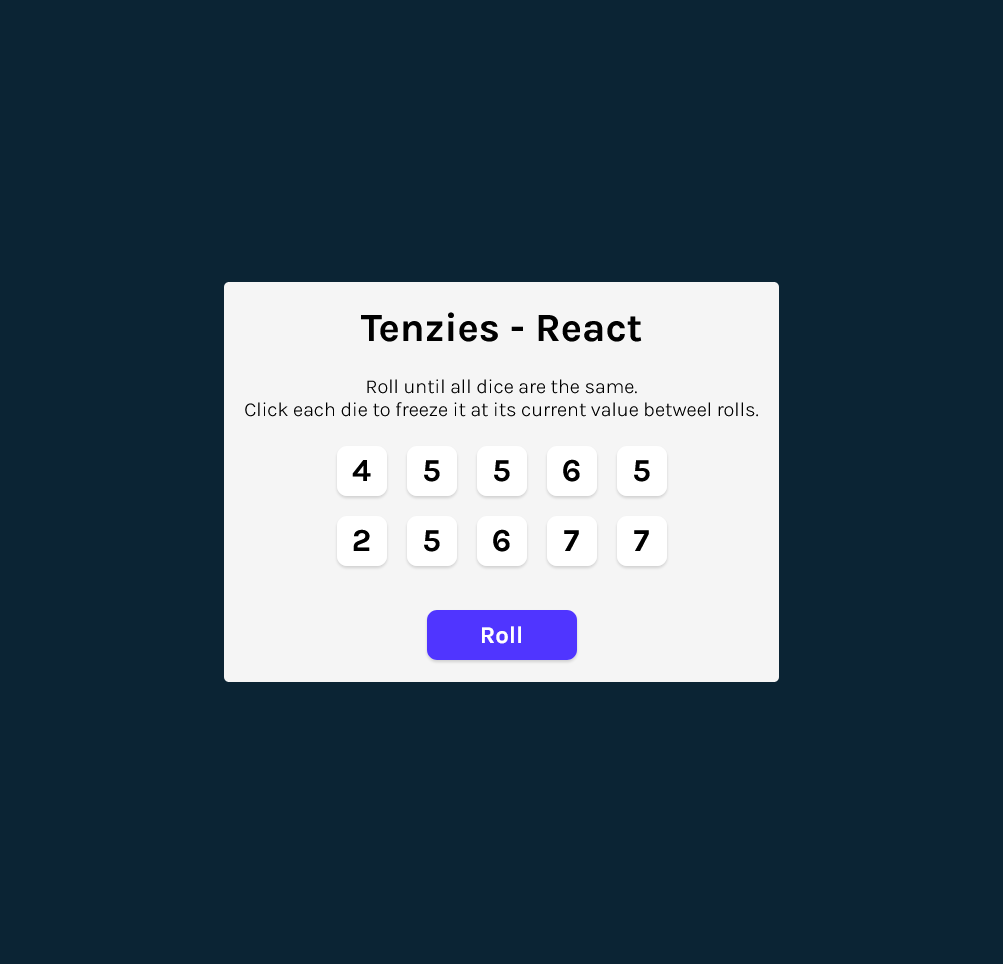
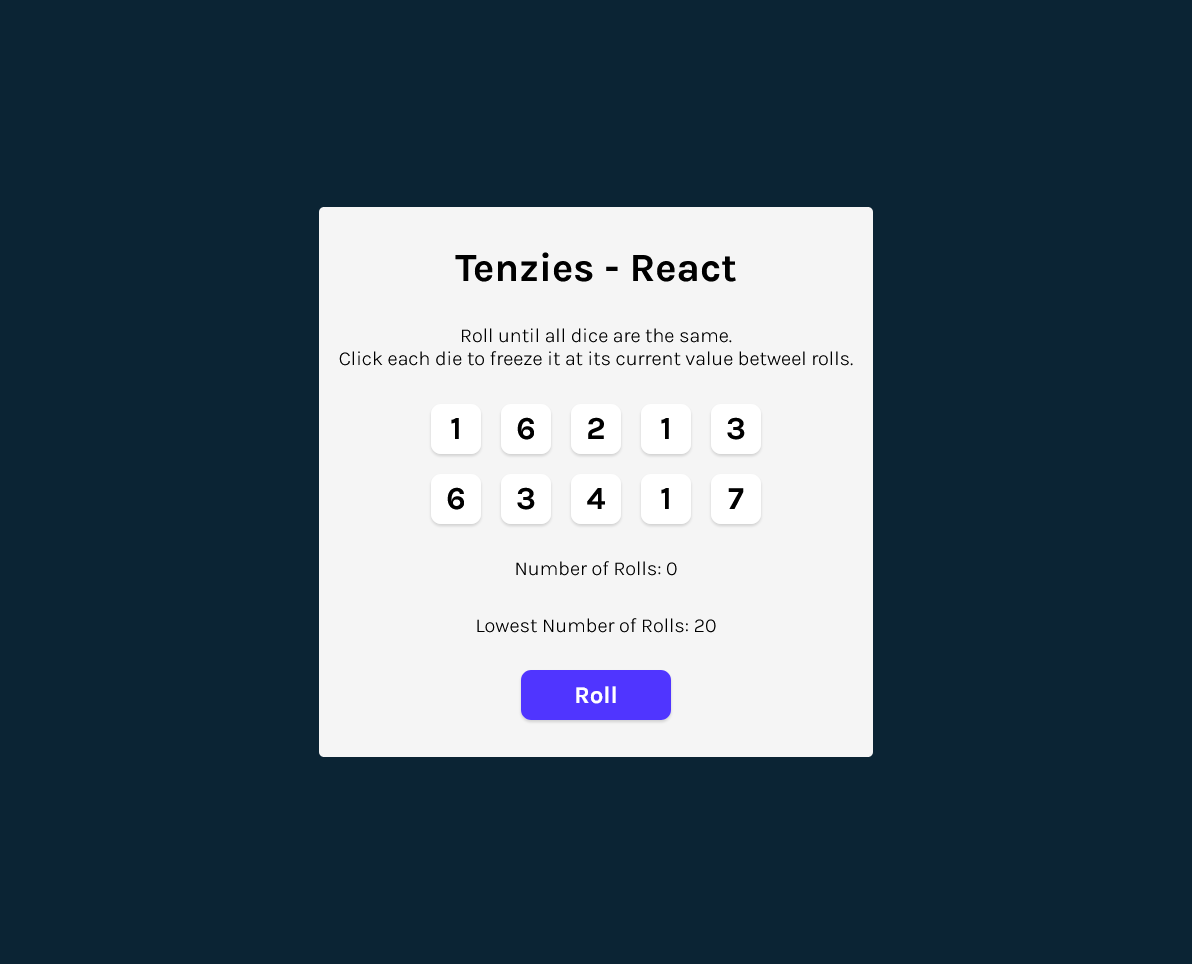
updated pics, updated code to show score, and highscore (stores in local storage)

diff --git a/src/App.js b/src/App.js
@@ -6,12 +6,22 @@ import Confetti from "react-confetti";
 export default function App() {
   const [dice, setDice] = React.useState(allNewDice());
   const [tenzies, setTenzies] = React.useState(false);
+  const [numRolls, setNumRolls] = React.useState(0);
+  const [highscore, setHighscore] = React.useState(
+    JSON.parse(localStorage.getItem("highscore") || 40)
+  );
 
   React.useEffect(() => {
     const allHeld = dice.every((die) => die.isHeld);
     const value = dice[0].value;
     const allValue = dice.every((die) => die.value === value);
-    if (allHeld && allValue) setTenzies(true);
+    if (allHeld && allValue) {
+      setTenzies(true);
+      if (numRolls <= highscore) {
+        setHighscore(numRolls);
+        localStorage.setItem("highscore", JSON.stringify(numRolls));
+      }
+    }
   }, [dice]);
 
   function allNewDice() {
@@ -34,6 +44,8 @@ export default function App() {
           : { ...die, value: Math.floor(Math.random() * 7) + 1, id: nanoid() };
       })
     );
+
+    setNumRolls((oldNum) => (oldNum = oldNum + 1));
   }
 
   function holdDice(id) {
@@ -47,7 +59,9 @@ export default function App() {
   function newGame() {
     setTenzies(false);
     setDice(allNewDice());
+    setNumRolls(0);
   }
+
   const diceElements = dice.map((die) => (
     <Die
       key={die.id}
@@ -66,6 +80,8 @@ export default function App() {
         Click each die to freeze it at its current value betweel rolls.
       </p>
       <div className="dice-container">{diceElements}</div>
+      <p>Number of Rolls: {numRolls}</p>
+      <p>Lowest Number of Rolls: {highscore}</p>
       <button onClick={tenzies ? newGame : rollDice} className="roll-dice">
         {tenzies ? "New Game" : "Roll"}
       </button>

diff --git a/src/styles.css b/src/styles.css
@@ -14,7 +14,7 @@ body {
 }
 main {
   background: #f5f5f5;
-  height: 400px;
+  height: 550px;
   max-width: 800px;
   border-radius: 5px;
   padding: 20px;
@@ -31,13 +31,13 @@ p {
   font-size: 20px;
   text-align: center;
   font-weight: 300;
+  margin: 0;
 }
 
 .dice-container {
   display: grid;
   grid-template: auto auto / repeat(5, 1fr);
   gap: 20px;
-  margin-bottom: 40px;
 }
 
 .die-face {

diff --git a/README.md b/README.md
@@ -2,7 +2,7 @@
 
 https://distracted-yalow-d7574c.netlify.app/
 
-My second react app. A simple tenzies game that I learned while following a course with several additions to the original project.
+My second react app. A simple tenzies game that I learned while following a course with several additions of my own to the original project. Current score display, as well as highscore being set on rolls
 
 ![screen shot](https://github.com/ishubham326/tenzies-react/blob/main/image-1.png)
 
